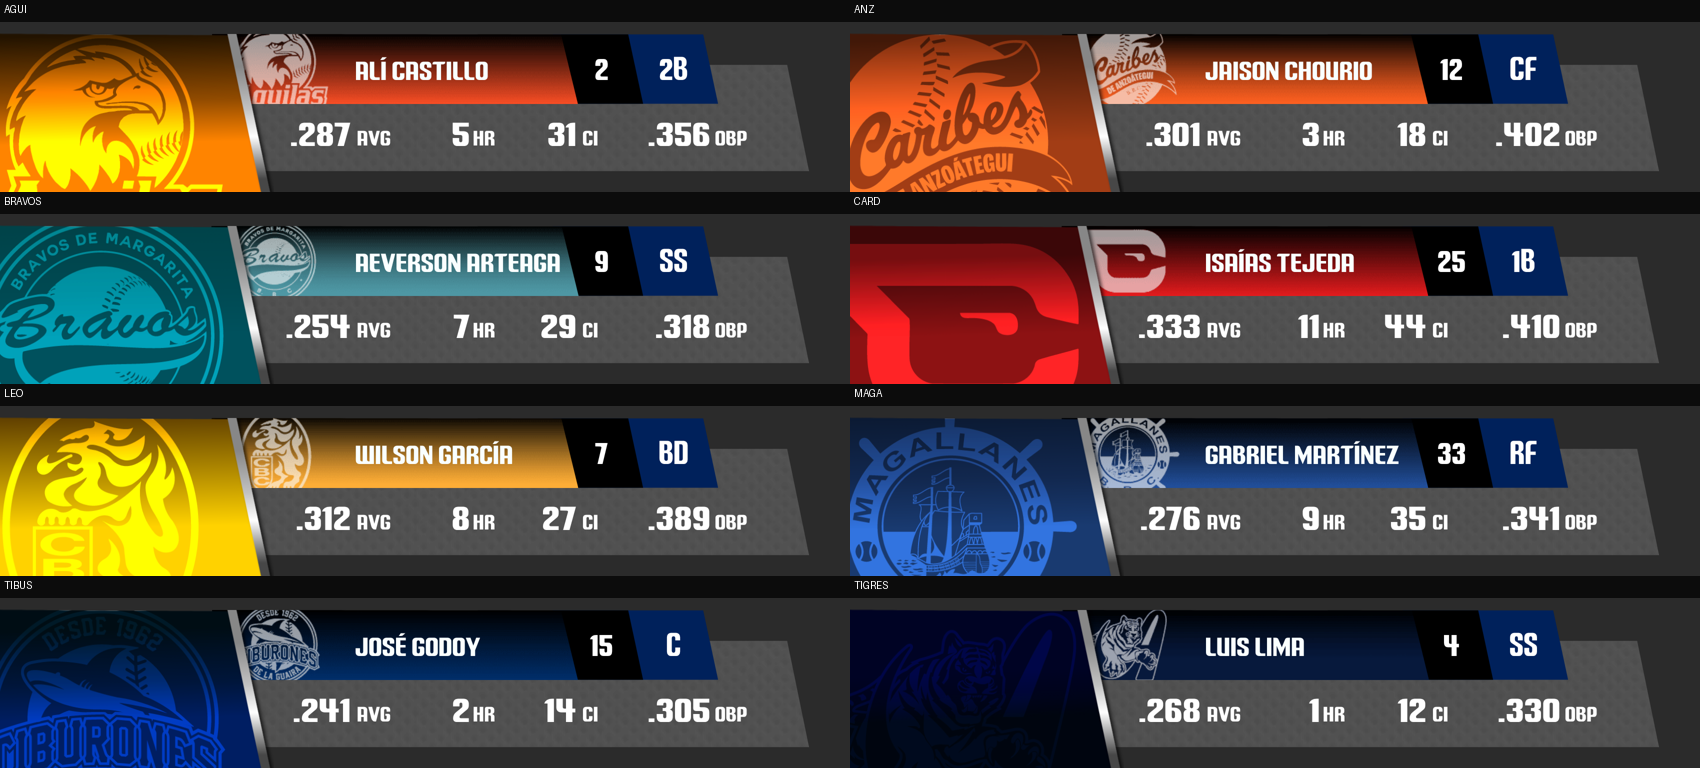
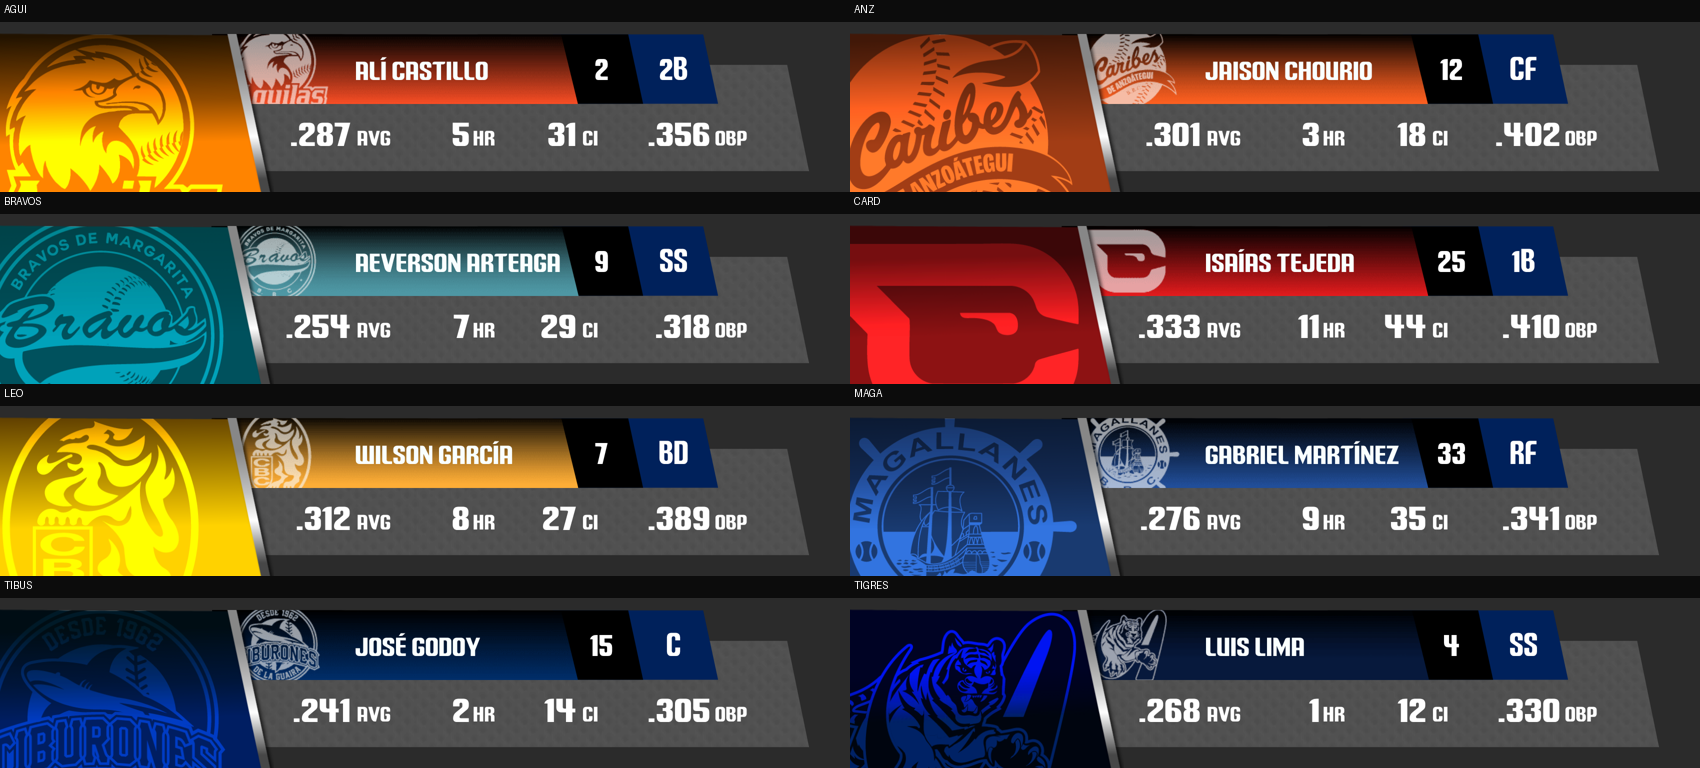
Bateador: el escudo de Tigres, en color dodge para que se vea
Sobre el fondo de Tigres, casi negro, el escudo en overlay no se veía
(el overlay a lo sumo duplica el brillo de abajo). Lleva lo mismo que
su escudo en las puertas de la ofensiva: color dodge con el Fill gris,
al 85 % (BAT_DODGE en prep.js), que lo deja como el de Tiburones o
Magallanes; el 95 % de la ofensiva, acá con el escudo al 100 %, queda
mucho más fuerte. Probado en el browser y en CasparCG; captura de los
8 equipos regenerada.

Claude-Session: https://claude.ai/code/session_01CcmzhVdTzAd5kfBXmwLEv5

Changed region(s): [[0.4988, 0.7812, 0.6235, 1.0]]

diff --git a/herramientas/prep.js b/herramientas/prep.js
@@ -581,6 +581,12 @@ const BAT_LW = { '.000': 125.6719, '00': 72.9531 };
 const BAT_ETIQUETA = 70;
 const BAT_BORDE = 527;
 const ENTRADA_BAT = 87;                // la entrada termina en el 86 (OPS)
+// El escudo grande va en overlay sobre el fondo, que a lo sumo duplica el brillo de lo que tiene
+// abajo: sobre el fondo de Tigres, casi negro, no se veía. Lleva lo mismo que su escudo en las
+// puertas de la ofensiva: color dodge con el Fill gris. Acá el escudo va al 100 % (en las puertas,
+// al 49 %): al 85 % se ve como el de Tiburones o Magallanes (comparado el 2026-10-16 con 80, 90 y
+// 95; el 95 de la ofensiva, acá, queda mucho más fuerte que los demás).
+const BAT_DODGE = { TIGRES: 0.85 };
 if (hay('LOWBAR BATEADOR')) {
     const d = load(path.join(SRC, 'LOWBAR BATEADOR/data.json'));
 
@@ -634,7 +640,8 @@ if (hay('LOWBAR BATEADOR')) {
     for (const l of d.layers) {
         const barra = l.nm.match(/^\.BARRA_([A-Z]+)_BATEO(?:_1)?\.png$/);
         const fondo = l.nm.match(/^\.FONDO([A-Z]+)$/);
-        const m = barra || fondo || l.nm.match(/^\.([A-Z]+)LOGO$/);
+        const escudo = l.nm.match(/^\.([A-Z]+)LOGO$/);
+        const m = barra || fondo || escudo;
         if (!m) continue;
         const sig = SIGLAS[m[1]];
         if (!sig) throw new Error(`${l.nm}: equipo desconocido`);
@@ -652,6 +659,11 @@ if (hay('LOWBAR BATEADOR')) {
             const stops = [];
             for (let i = 8; i >= 0; i -= 4) stops.push(+(1 - k[i]).toFixed(3), k[i + 1], k[i + 2], k[i + 3]);
             gf.g.k.k = stops;
+        }
+        if (escudo && BAT_DODGE[sig]) {
+            if (l.bm !== 3 || l.ef) throw new Error(`${l.nm}: bm ${l.bm}, efectos inesperados`);
+            l.bm = 6;                  // color dodge
+            l.ef = [relleno(BAT_DODGE[sig], 1)];
         }
         rename(d, l.nm, sig + '_opacidad');
     }

diff --git a/CLAUDE.md b/CLAUDE.md
@@ -131,8 +131,11 @@ Empiezan ocultas (CSS de `index.html`, como el bateador de Meridiano): el contro
 que batea y `0` a los otros siete. Sin equipo no se ven la barra ni el fondo: el nombre queda sobre
 la textura gris y la placa negra del número, entera. El export trae el fondo de siete equipos con
 el mismo naranja (el de Bravos) y sólo Tigres con el suyo: van con el color de cada equipo de la
-ofensiva, como las puertas de la defensiva (Leon, 2026-10-16). Sobre los de Tiburones y Tigres, casi
-negros, el escudo (en *overlay*) casi no se ve.
+ofensiva, como las puertas de la defensiva (Leon, 2026-10-16). El escudo va en *overlay*, que a lo
+sumo duplica el brillo del fondo: sobre el de Tigres, casi negro, no se veía. Lleva lo mismo que su
+escudo en las puertas de la ofensiva, *color dodge* con el Fill gris (`BAT_DODGE` en `prep.js`), al
+85 %: se ve como el de Tiburones o Magallanes (el 95 % de la ofensiva, acá, con el escudo al 100 % y
+no al 49 %, queda mucho más fuerte). Comparado el 2026-10-16 con 80, 90 y 95.
 
 Textos: en mayúsculas. El nombre, como en Meridiano (`ISAIAS TEJEDA`): al tamaño del diseño entran
 unas 17 letras (`AEVERSON ARTEAGA` entra; `ALEXANDER MONASTERIOS` baja de 55 a 42); más largos
@@ -273,6 +276,8 @@ el título del export): igual salvo 1 o 2 niveles de 255 en el escudo.
   (`ofensiva/data.json`), con los stops dados vuelta (la puerta va de oscuro en 0, arriba, a claro
   en 1; el fondo, claro en 0, abajo). Las posiciones del degradado (`s`, `e`) quedan las del export.
   `prep.js` prepara la ofensiva antes que el bateador: si llegan los dos juntos, alcanza con una vez.
+- **Escudo de Tigres:** de *overlay* (`bm` 3) a *color dodge* (6), con el Fill gris al 85 % (ver
+  arriba).
 - **Barras:** aparecen cuando empiezan a moverse (frame 11, su primer keyframe): antes, su punta
   asomaba quieta 5 px en el borde izquierdo, del frame 0 al 10 (y al final de la salida).
 - **Markers y timeline:** `START` (0–30) y `STOP` (90–120) del diseñador → `play`, `salida` y `stop`
